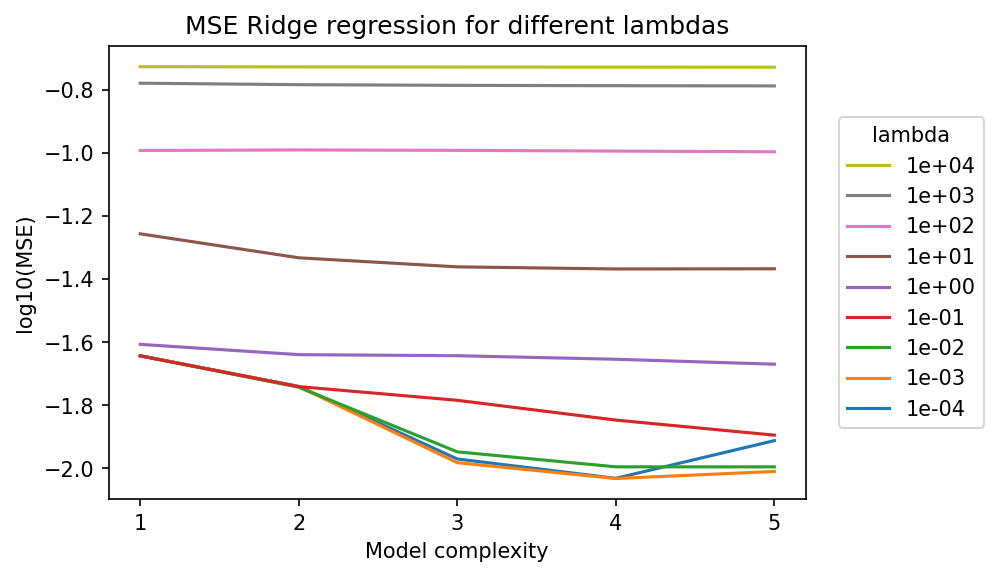
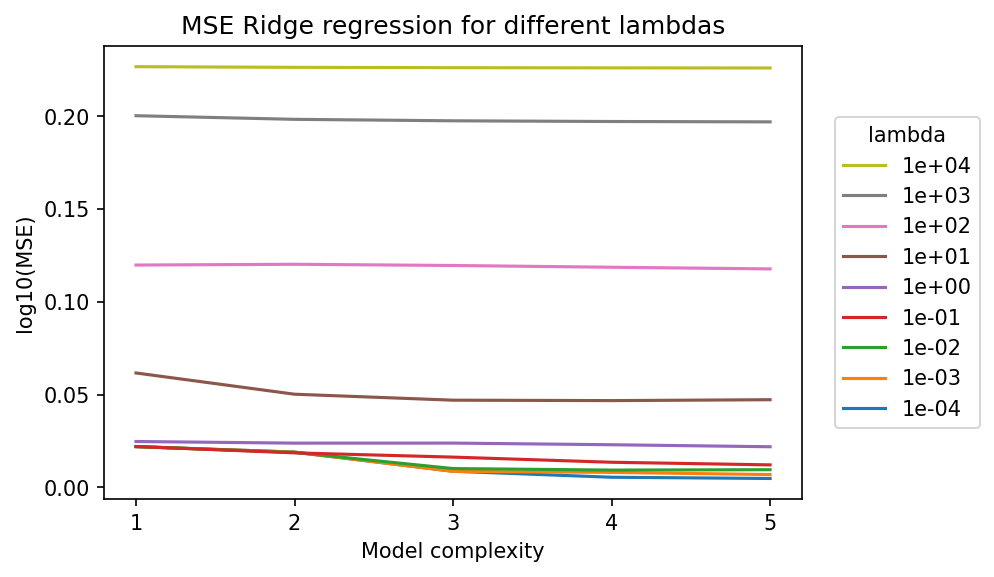
Updated

diff --git a/Project1/09_Lasso_CrossValidation.py b/Project1/09_Lasso_CrossValidation.py
@@ -1,18 +1,15 @@
-'''
-This###This program performs Ridge regression on a synthetic dataset generated by the Franke Function
+'''This program performs Lasso regression on a synthetic dataset generated by the Franke Function
 with cross-validation resampling
 The program returns plot Error against polynomial degree (up to 10) for a given hyper parameter Lamda
 Author: R Corseri & L Barreiro'''
-
 #%%
-
 import numpy as np
 import matplotlib.pyplot as plt
 from sklearn.model_selection import KFold
-from Functions import RidgeReg, MSE, FrankeFunction, DesignMatrix
+from Functions import LassoReg, MSE, DesignMatrix, FrankeFunction
+
 
 #%%
-
 #Model complexity (polynomial degree up to 7)
 maxdegree= 5
 
@@ -44,9 +41,8 @@ x = np.hstack((x1,x2)).reshape(n,2)
 
 #Scaling not needed
 
-
 #%%
-# Plot all in the same figure as subplots
+
 
 #Initialize before looping:
 polydegree = np.zeros(maxdegree)
@@ -54,6 +50,7 @@ error_Kfold = np.zeros((maxdegree,k))
 estimated_mse_Kfold = np.zeros(maxdegree)
 bias = np.zeros(maxdegree)
 variance = np.zeros(maxdegree)
+
 
 # Create a matplotlib figure
 fig, ax = plt.subplots()
@@ -71,7 +68,7 @@ for l in range(nlambdas):
                  
             X_train = DesignMatrix(x_train[:,0],x_train[:,1],degree+1)
             X_test = DesignMatrix(x_test[:,0],x_test[:,1],degree+1)
-            y_fit, y_pred, Beta = RidgeReg(X_train, X_test, y_train, y_test,lambdas[l])
+            y_fit, y_pred = LassoReg(X_train, X_test, y_train, y_test,lambdas[l])
             
             error_Kfold[i,j] = MSE(y_test,y_pred)
             
@@ -86,14 +83,13 @@ for l in range(nlambdas):
 
 plt.xlabel('Model complexity')    
 plt.xticks(np.arange(1, len(polydegree)+1, step=1))  # Set label locations.
-plt.ylabel('log10(MSE)')
-plt.title('MSE Ridge regression for different lambdas')
+plt.ylabel('MSE')
+plt.title('MSE Lasso regression for different lambdas')
 
 # Add a legend
 handles, labels = ax.get_legend_handles_labels()
 ax.legend(handles[::-1], labels[::-1], title='lambda', loc='center right', bbox_to_anchor=(1.27, 0.5))
 
 #Save figure
-plt.savefig("plots/Ridge_Lasso/Ridge_MSE_DifferentLambdas.png",dpi=150, bbox_inches='tight')
+plt.savefig("plots/Ridge_Lasso/Lasso_MSE_DifferentLambdas.png",dpi=150, bbox_inches='tight')
 plt.show()
-

diff --git a/Project1/08_Lasso_bootstrap.py b/Project1/08_Lasso_bootstrap.py
@@ -1,16 +1,19 @@
-'''This program performs Ridge regression on a synthetic dataset generated by the Franke Function
+'''This program performs Lasso regression on a synthetic dataset generated by the Franke Function
 and performs bootstrap resampling technique
 The program returns plot of Bias Variance trade off against polynomial degree (up to 10) for a given hyper parameter Lamda
 Author: R Corseri & L Barreiro'''
+
 #%%
 
 import numpy as np
 import matplotlib.pyplot as plt
 from sklearn.model_selection import train_test_split
 from sklearn.utils import resample
-from Functions import RidgeReg, DesignMatrix, FrankeFunction
+from Functions import LassoReg, DesignMatrix, FrankeFunction
+
 
 #%%
+
 #Define maximal model complexity
 maxdegree= 5
 
@@ -43,13 +46,13 @@ x_train, x_test, z_train, z_test = train_test_split(x1, z, test_size=0.2)
 #Scaling not needed
 
 #%%
+
 #Initialize before looping:
 TestError = np.zeros(maxdegree)
 TrainError = np.zeros(maxdegree)
 TestR2 = np.zeros(maxdegree)
 TrainR2 = np.zeros(maxdegree)
 polydegree = np.zeros(maxdegree)
-predictor =[]
 
 error = np.zeros(maxdegree)
 bias = np.zeros(maxdegree)
@@ -69,10 +72,9 @@ for l in range(nlambdas):
       
             X_train = DesignMatrix(x_[:,0],x_[:,1],degree+1)
             X_test = DesignMatrix(x_test[:,0],x_test[:,1],degree+1)
-            z_fit, z_pred[:,i], Beta = RidgeReg(X_train, X_test, z_, z_test,lambdas[l])
+            z_fit, z_pred[:,i] = LassoReg(X_train, X_test, z_, z_test,lambdas[l])
                     
         z_test = np.reshape(z_test, (len(z_test),1))
-        predictor=np.append(predictor,Beta)
         polydegree[degree] = degree+1
            
         error[degree] = np.mean( np.mean((z_test - z_pred)**2, axis=1, keepdims=True) )
@@ -90,9 +92,5 @@ fig.text(0.5, 0.08, 'Model complexity', ha='center')
 fig.text(0.07, 0.5, 'Error', va='center', rotation='vertical')
 fig.suptitle("Variance-Bias tradeoff for different lambda (Ridge)", fontsize=18, y=0.95)
 plt.legend()
-plt.savefig("plots/Ridge_Lasso/Ridge_Bias_Variance_trade_off_LAMBDAS.png",dpi=150)
+plt.savefig("plots/Ridge_Lasso/Lasso_Bias_Variance_trade_off_LAMBDAS.png",dpi=150)
 plt.show()
-
-
-
-
